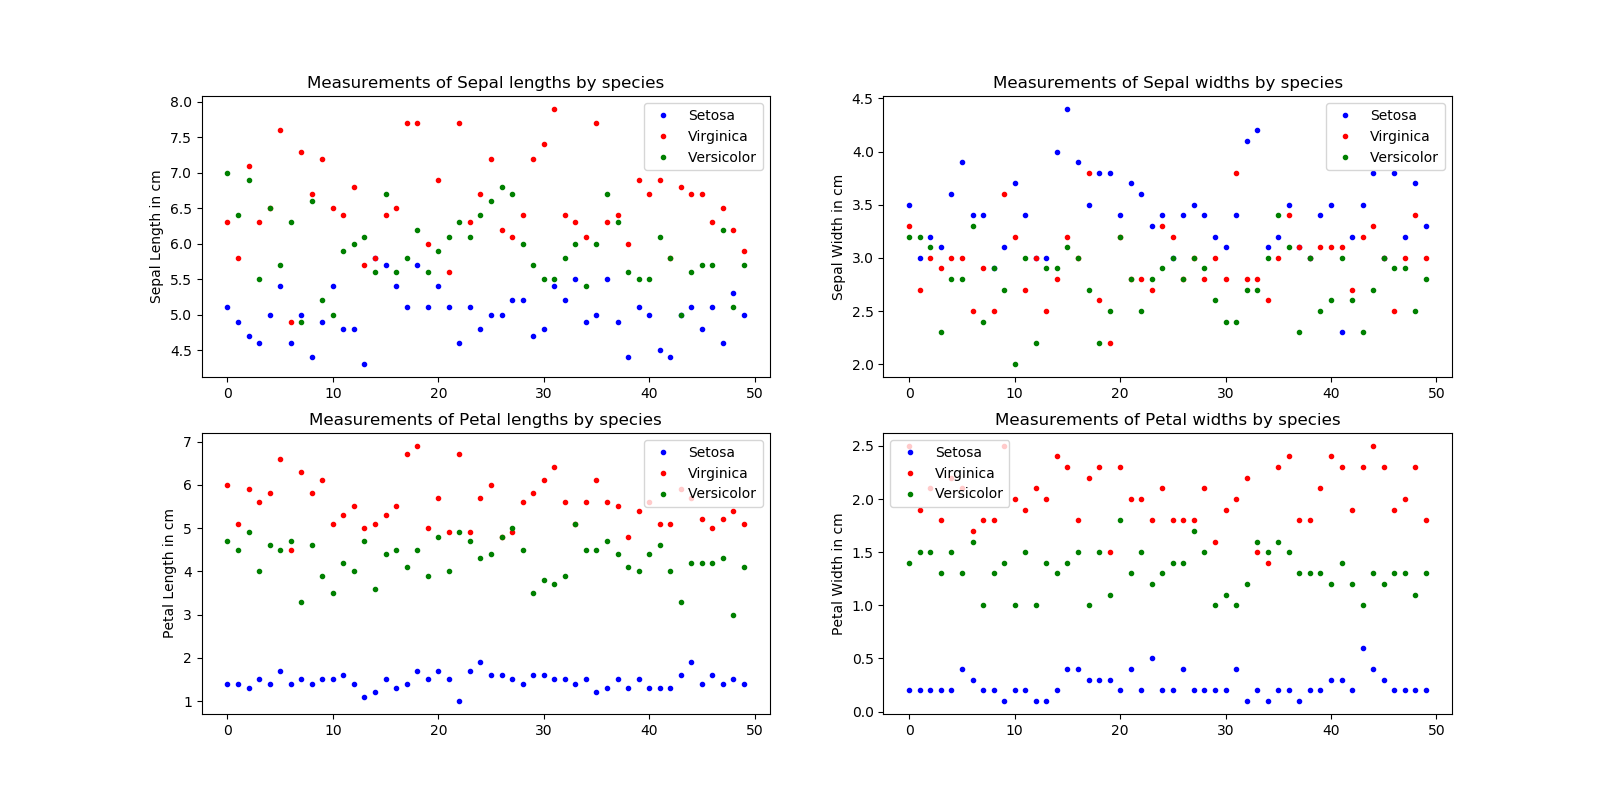
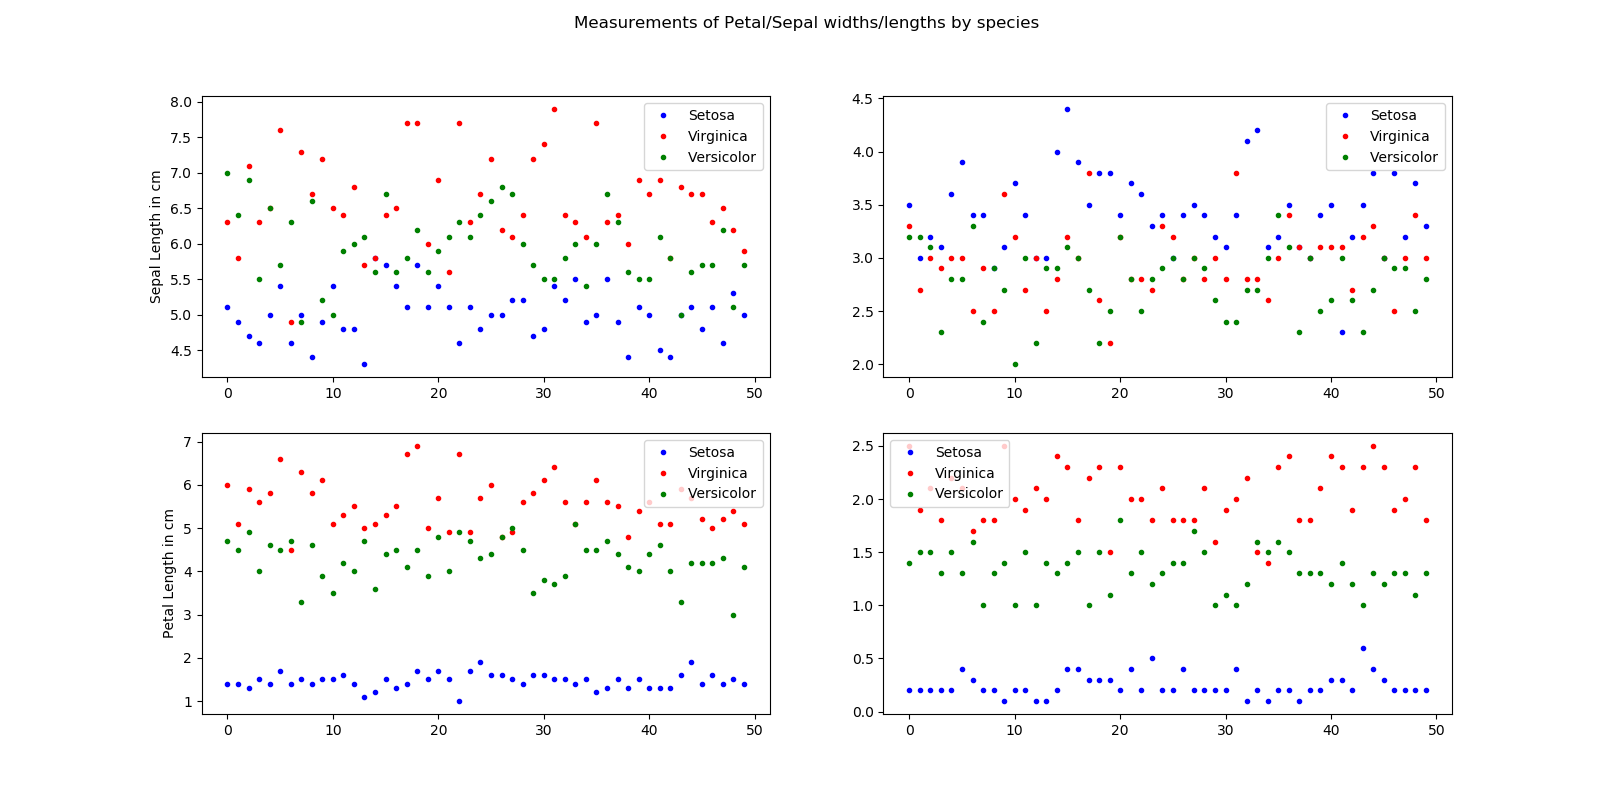
updated pandas values method with newer to_numpy() method

diff --git a/iris.py b/iris.py
@@ -46,15 +46,15 @@ plot.show()  # Show the 2x2 Subplot (Plot saved as 2x2_measurements.png and disp
 # adapted https://www.kaggle.com/jchen2186/machine-learning-with-iris-dataset
 # Using matplotlib instead of seaborn, I have recreated the 4x4 subplots from this kaggle project
 plot.subplot(4,4,5)
-plot.plot(setosa['sepal_length'].values,setosa['sepal_width'].values,'b+',vi['sepal_length'].values,vi['sepal_width'].values,'r+',ve['sepal_length'].values,ve['sepal_width'].values,'g+')
+plot.plot(setosa['sepal_length'].to_numpy(),setosa['sepal_width'].to_numpy(),'b+',vi['sepal_length'].to_numpy(),vi['sepal_width'].to_numpy(),'r+',ve['sepal_length'].to_numpy(),ve['sepal_width'].to_numpy(),'g+')
 plot.ylabel('Sepal width in cm')
 
 plot.subplot(4,4,9)
-plot.plot(setosa['sepal_length'].values,setosa['petal_length'].values,'b+',vi['sepal_length'].values,vi['petal_length'].values,'r+',ve['sepal_length'].values,ve['petal_length'].values,'g+')
+plot.plot(setosa['sepal_length'].to_numpy(),setosa['petal_length'].to_numpy(),'b+',vi['sepal_length'].to_numpy(),vi['petal_length'].to_numpy(),'r+',ve['sepal_length'].to_numpy(),ve['petal_length'].to_numpy(),'g+')
 plot.ylabel('Petal length in cm')
 
 plot.subplot(4,4,13)
-plot.plot(setosa['sepal_length'].values,setosa['petal_width'].values,'b+',vi['sepal_length'].values,vi['petal_width'].values,'r+',ve['sepal_length'].values,ve['petal_width'].values,'g+')
+plot.plot(setosa['sepal_length'].to_numpy(),setosa['petal_width'].to_numpy(),'b+',vi['sepal_length'].to_numpy(),vi['petal_width'].to_numpy(),'r+',ve['sepal_length'].to_numpy(),ve['petal_width'].to_numpy(),'g+')
 plot.ylabel('Petal width in cm')
 plot.xlabel('Sepal length in cm')
 
@@ -82,39 +82,39 @@ plot.hist(x3_multi,bins=10,stacked=True,color=colours)
 plot.xlabel('Petal width in cm')
 
 plot.subplot(4,4,2)
-plot.plot(setosa['sepal_width'].values,setosa['sepal_length'].values,'b+',vi['sepal_width'].values,vi['sepal_length'].values,'r+',ve['sepal_width'].values,ve['sepal_length'].values,'g+')
+plot.plot(setosa['sepal_width'].to_numpy(),setosa['sepal_length'].to_numpy(),'b+',vi['sepal_width'].to_numpy(),vi['sepal_length'].to_numpy(),'r+',ve['sepal_width'].to_numpy(),ve['sepal_length'].to_numpy(),'g+')
 
 plot.subplot(4,4,10)
-plot.plot(setosa['sepal_width'].values,setosa['petal_length'].values,'b+',vi['sepal_width'].values,vi['petal_length'].values,'r+',ve['sepal_width'].values,ve['petal_length'].values,'g+')
+plot.plot(setosa['sepal_width'].to_numpy(),setosa['petal_length'].to_numpy(),'b+',vi['sepal_width'].to_numpy(),vi['petal_length'].to_numpy(),'r+',ve['sepal_width'].to_numpy(),ve['petal_length'].to_numpy(),'g+')
 
 plot.subplot(4,4,14)
-plot.plot(setosa['sepal_width'].values,setosa['petal_width'].values,'b+',vi['sepal_width'].values,vi['petal_width'].values,'r+',ve['sepal_width'].values,ve['petal_width'].values,'g+')
+plot.plot(setosa['sepal_width'].to_numpy(),setosa['petal_width'].to_numpy(),'b+',vi['sepal_width'].to_numpy(),vi['petal_width'].to_numpy(),'r+',ve['sepal_width'].to_numpy(),ve['petal_width'].to_numpy(),'g+')
 plot.xlabel('Sepal width in cm')
 
 
 plot.subplot(4,4,3)
-plot.plot(setosa['petal_length'].values,setosa['sepal_length'].values,'b+',vi['petal_length'].values,vi['sepal_length'].values,'r+',ve['petal_length'].values,ve['sepal_length'].values,'g+')
+plot.plot(setosa['petal_length'].to_numpy(),setosa['sepal_length'].to_numpy(),'b+',vi['petal_length'].to_numpy(),vi['sepal_length'].to_numpy(),'r+',ve['petal_length'].to_numpy(),ve['sepal_length'].to_numpy(),'g+')
 
 plot.subplot(4,4,7)
-plot.plot(setosa['petal_length'].values,setosa['sepal_width'].values,'b+',vi['petal_length'].values,vi['sepal_width'].values,'r+',ve['petal_length'].values,ve['sepal_width'].values,'g+')
+plot.plot(setosa['petal_length'].to_numpy(),setosa['sepal_width'].to_numpy(),'b+',vi['petal_length'].to_numpy(),vi['sepal_width'].to_numpy(),'r+',ve['petal_length'].to_numpy(),ve['sepal_width'].to_numpy(),'g+')
 
 plot.subplot(4,4,15)
-plot.plot(setosa['petal_length'].values,setosa['petal_width'].values,'b+',vi['petal_length'].values,vi['petal_width'].values,'r+',ve['petal_length'].values,ve['petal_width'].values,'g+')
+plot.plot(setosa['petal_length'].to_numpy(),setosa['petal_width'].to_numpy(),'b+',vi['petal_length'].to_numpy(),vi['petal_width'].to_numpy(),'r+',ve['petal_length'].to_numpy(),ve['petal_width'].to_numpy(),'g+')
 plot.xlabel('Petal length in cm')
 
 
 plot.subplot(4,4,4)
-plot.plot(setosa['petal_width'].values,setosa['sepal_length'].values,'b+',label='setosa')
-plot.plot(vi['petal_width'].values,vi['sepal_length'].values,'r+',label='virginica')
-plot.plot(ve['petal_width'].values,ve['sepal_length'].values,'g+',label='versicolor')
+plot.plot(setosa['petal_width'].to_numpy(),setosa['sepal_length'].to_numpy(),'b+',label='setosa')
+plot.plot(vi['petal_width'].to_numpy(),vi['sepal_length'].to_numpy(),'r+',label='virginica')
+plot.plot(ve['petal_width'].to_numpy(),ve['sepal_length'].to_numpy(),'g+',label='versicolor')
 # Adapted https://stackoverflow.com/a/43439132
 plot.legend(bbox_to_anchor=(0., 1.02, 1.1, .2), loc="lower left", mode="expand", ncol=3)
 
 plot.subplot(4,4,8)
-plot.plot(setosa['petal_width'].values,setosa['sepal_width'].values,'b+',vi['petal_width'].values,vi['sepal_width'].values,'r+',ve['petal_width'].values,ve['sepal_width'].values,'g+')
+plot.plot(setosa['petal_width'].to_numpy(),setosa['sepal_width'].to_numpy(),'b+',vi['petal_width'].to_numpy(),vi['sepal_width'].to_numpy(),'r+',ve['petal_width'].to_numpy(),ve['sepal_width'].to_numpy(),'g+')
 
 plot.subplot(4,4,12)
-plot.plot(setosa['petal_width'].values,setosa['petal_length'].values,'b+',vi['petal_width'].values,vi['petal_length'].values,'r+',ve['petal_width'].values,ve['petal_length'].values,'g+')
+plot.plot(setosa['petal_width'].to_numpy(),setosa['petal_length'].to_numpy(),'b+',vi['petal_width'].to_numpy(),vi['petal_length'].to_numpy(),'r+',ve['petal_width'].to_numpy(),ve['petal_length'].to_numpy(),'g+')
 
 plot.suptitle('Sepal/Petal width/length pair plots')
 plot.show()
